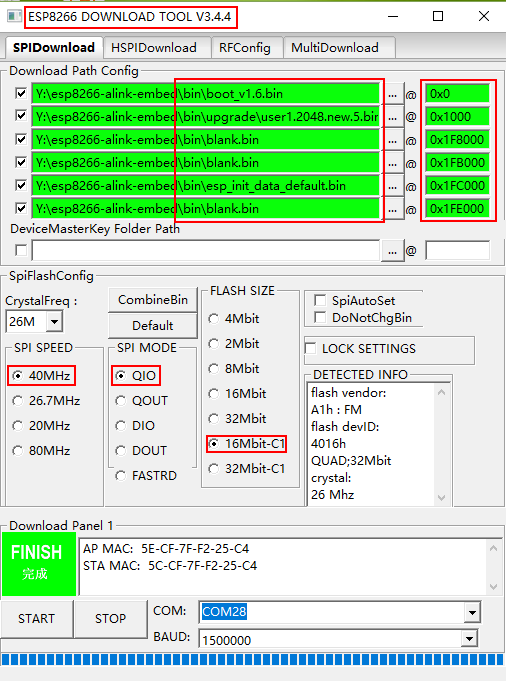
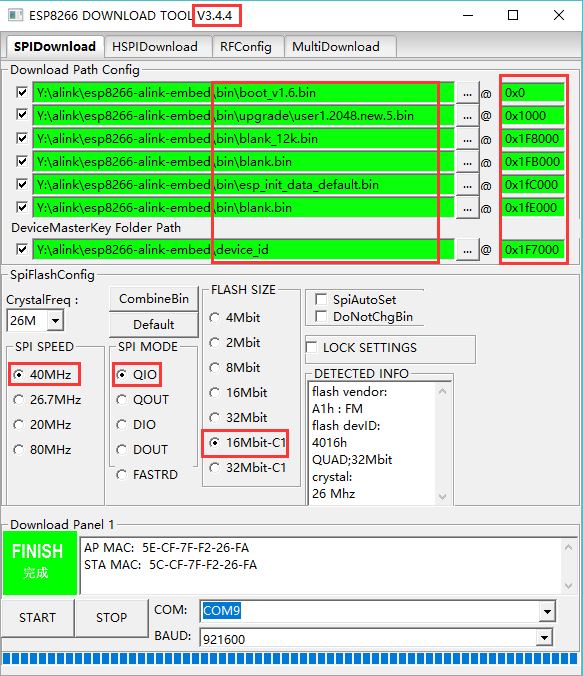
feat: Update the configuration of alink sds

diff --git a/user/sample_json.c b/user/sample_json.c
@@ -26,6 +26,8 @@
 
 #include "freertos/FreeRTOS.h"
 #include "freertos/task.h"
+#include "freertos/timers.h"
+
 
 #include "esp_alink.h"
 #include "esp_alink_log.h"
@@ -37,7 +39,7 @@
 #define CONFIG_READ_TASK_STACK ((1024+512) / 4)
 #endif
 
-static const char *TAG = "sample_json";
+static const char *TAG         = "sample_json";
 static xTaskHandle read_handle = NULL;
 
 /*do your job here*/
@@ -63,23 +65,20 @@ static dev_info_t light_info = {
  */
 static alink_err_t device_data_parse(const char *json_str, const char *key, uint8_t *value)
 {
-    alink_err_t ret = 0;
-    char sub_str[64] = {0};
+    alink_err_t ret   = 0;
+    char sub_str[64]  = {0};
     char value_tmp[8] = {0};
 
-    ret = esp_json_parse(json_str, key, sub_str);
-
-    if (ret < 0) {
+    if (esp_json_parse(json_str, key, sub_str) < 0) {
         return ALINK_ERR;
     }
 
-    ret = esp_json_parse(sub_str, "value", value_tmp);
-
-    if (ret < 0) {
+    if (esp_json_parse(sub_str, "value", value_tmp) < 0) {
         return ALINK_ERR;
     }
 
     *value = atoi(value_tmp);
+
     return ALINK_ERR;
 }
 
@@ -88,15 +87,11 @@ static alink_err_t device_data_pack(const char *json_str, const char *key, int v
     char sub_str[64] = {0};
     alink_err_t ret = 0;
 
-    ret = esp_json_pack(sub_str, "value", value);
-
-    if (ret < 0) {
+    if (esp_json_pack(sub_str, "value", value) < 0) {
         return ALINK_ERR;
     }
 
-    ret = esp_json_pack(json_str, key, sub_str);
-
-    if (ret < 0) {
+    if (esp_json_pack(json_str, key, sub_str) < 0) {
         return ALINK_ERR;
     }
 
@@ -112,13 +107,12 @@ static const char *activate_data2 = "{\"ErrorCode\": { \"value\": \"0\" }}";
 static alink_err_t alink_activate_device()
 {
     alink_err_t ret = 0;
-    ret = alink_write(activate_data, strlen(activate_data) + 1, 200);
-    ret = alink_write(activate_data2, strlen(activate_data2) + 1, 200);
 
-    if (ret < 0) {
-        ALINK_LOGW("alink_write is err");
-        return ALINK_ERR;
-    }
+    ret = alink_write(activate_data, strlen(activate_data) + 1, 200);
+    ALINK_ERROR_CHECK(ret < 0, ALINK_ERR, "alink_write, ret: %d", ret);
+
+    ret = alink_write(activate_data2, strlen(activate_data2) + 1, 200);
+    ALINK_ERROR_CHECK(ret < 0, ALINK_ERR, "alink_write, ret: %d", ret);
 
     return ALINK_OK;
 }
@@ -130,20 +124,16 @@ static alink_err_t alink_activate_device()
 static alink_err_t proactive_report_data()
 {
     alink_err_t ret = 0;
-    char *up_cmd = (char *)calloc(1, ALINK_DATA_LEN);
+    char *up_cmd    = calloc(1, ALINK_DATA_LEN);
 
-    // device_data_pack(up_cmd, "ErrorCode", light_info.errorcode);
     device_data_pack(up_cmd, "Hue", light_info.hue);
     device_data_pack(up_cmd, "Luminance", light_info.luminance);
     device_data_pack(up_cmd, "Switch", light_info.power);
     device_data_pack(up_cmd, "WorkMode", light_info.work_mode);
+
     ret = alink_write(up_cmd, strlen(up_cmd) + 1, 500);
     free(up_cmd);
-
-    if (ret < 0) {
-        ALINK_LOGW("alink_write is err");
-        return ALINK_ERR;
-    }
+    ALINK_ERROR_CHECK(ret < 0, ALINK_ERR, "alink_write, ret: %d", ret);
 
     return ALINK_OK;
 }
@@ -158,7 +148,7 @@ static alink_err_t proactive_report_data()
  */
 static void read_task_test(void *arg)
 {
-    char *down_cmd = (char *)malloc(ALINK_DATA_LEN);
+    char *down_cmd  = (char *)malloc(ALINK_DATA_LEN);
     alink_err_t ret = ALINK_ERR;
 
     for (;;) {
@@ -330,36 +320,18 @@ uint32 user_rf_cal_sector_set(void)
     return rf_cal_sec;
 }
 
-/**
- * @brief As a unique identifier for the sds device
- */
-#define device_key              "xrSJSzVDKPk4UB7BGCIf"
-#define device_secret           "cRB3lwgd7zwFg02DK69xxl2lgefDdtYZ"
-#define DEVICE_KEY_LEN          (20 + 1)
-#define DEVICE_SECRET_LEN       (32 + 1)
-
-char *product_get_device_key(char key_str[DEVICE_KEY_LEN])
-{
-    return strncpy(key_str, device_key, DEVICE_KEY_LEN);
-}
-
-char *product_get_device_secret(char secret_str[DEVICE_SECRET_LEN])
-{
-    return strncpy(secret_str, device_secret, DEVICE_SECRET_LEN);
-}
-
 static void alink_app_main_task(void *arg)
 {
+    alink_err_t ret = ALINK_OK;
     const alink_product_t product_info = {
         .name           = "alink_product",
         /*!< Product version number, ota upgrade need to be modified */
         .version        = "1.0.0",
-        .model          = "ALINKTEST_LIVING_LIGHT_ALINK_TEST",
-        .key            = "5gPFl8G4GyFZ1fPWk20m",
-        .secret         = "ngthgTlZ65bX5LpViKIWNsDPhOf2As9ChnoL9gQb",
-        /*!< The Key-value pair used in the product */
-        .key_sandbox    = "dpZZEpm9eBfqzK7yVeLq",
-        .secret_sandbox = "THnfRRsU5vu6g6m9X6uFyAjUWflgZ0iyGjdEneKm",
+        .model          = "OPENALINK_LIVING_LIGHT_SDS_TEST",
+        .key            = "1L6ueddLqnRORAQ2sGOL",
+        .secret         = "qfxCLoc1yXEk9aLdx5F74tl1pdxl0W0q7eYOvvuo",
+        .key_sandbox    = "",
+        .secret_sandbox = "",
     };
 
     /**
@@ -372,36 +344,31 @@ static void alink_app_main_task(void *arg)
     vTaskDelete(NULL);
 }
 
-#ifdef SAMPLE_JSON_DEBUG
+
 extern xTaskHandle event_handle;
 extern xTaskHandle post_handle;
 /**
  * @brief This function is only for detecting memory leaks
  */
-static void alink_debug_task(void *arg)
+static void alink_debug_timer_cb(void *timer)
 {
-    for (;;) {
-        ALINK_LOGI("total free heap :%d, count: %d", system_get_free_heap_size(), count);
+    ALINK_LOGI("total free heap : %dB, count: %d", system_get_free_heap_size(), count);
 
-        if (event_handle) {
-            ALINK_LOGI("event_handle free heap size: %dB", uxTaskGetStackHighWaterMark(event_handle) * 4);
-        }
-
-        if (post_handle) {
-            ALINK_LOGI("post_handle free heap size: %dB", uxTaskGetStackHighWaterMark(post_handle) * 4);
-        }
-
-        if (read_handle) {
-            ALINK_LOGI("read_handle free heap size: %dB", uxTaskGetStackHighWaterMark(read_handle) * 4);
-        }
-
-        printf("\n");
-        vTaskDelay(5000 / portTICK_RATE_MS);
+    if (event_handle) {
+        ALINK_LOGI("event_handle free heap size: %dB", uxTaskGetStackHighWaterMark(event_handle) * 4);
     }
 
-    vTaskDelete(NULL);
+    if (post_handle) {
+        ALINK_LOGI("post_handle free heap size: %dB", uxTaskGetStackHighWaterMark(post_handle) * 4);
+    }
+
+    if (read_handle) {
+        ALINK_LOGI("read_handle free heap size: %dB", uxTaskGetStackHighWaterMark(read_handle) * 4);
+    }
+
+    printf("\n");
 }
-#endif
+
 
 /******************************************************************************
  * FunctionName : user_init
@@ -411,8 +378,8 @@ static void alink_debug_task(void *arg)
 *******************************************************************************/
 void user_init(void)
 {
-#ifdef SAMPLE_JSON_DEBUG
     /*!< Used to debug unexpectedly exit */
+    ALINK_LOGI("=================  EXIT INFO  ================");
     struct rst_info *rst_info = system_get_rst_info();
     ALINK_LOGI("reason   : 0x%x", rst_info->reason);
     ALINK_LOGI("exccause : 0x%x", rst_info->exccause);
@@ -422,8 +389,6 @@ void user_init(void)
     ALINK_LOGI("excvaddr : 0x%x", rst_info->excvaddr);
     ALINK_LOGI("depc     : 0x%x", rst_info->depc);
     ALINK_LOGI("rtn_addr : 0x%x", rst_info->rtn_addr);
-    xTaskCreate(alink_debug_task, "debug_task", 512 / 4 , NULL, 3, NULL);
-#endif
 
     ALINK_LOGI("================= SYSTEM INFO ================");
     ALINK_LOGI("compile time : %s %s", __DATE__, __TIME__);
@@ -435,5 +400,10 @@ void user_init(void)
 
     wifi_set_opmode(STATION_MODE);
     xTaskCreate(alink_app_main_task, "app_main_task", (4096 + 512) / 4 , NULL, 5, NULL);
+
+    xTimerHandle timer = xTimerCreate("alink_debug_timer_cb", 10000 / portTICK_RATE_MS,
+                                       true, NULL, alink_debug_timer_cb);
+    xTimerStart(timer, 0);
 }
-#endif
+
+#endif /*!< ALINK_PASSTHROUGH */

diff --git a/platforms/alink-embed/adaptation/alink_product.c b/platforms/alink-embed/adaptation/alink_product.c
@@ -88,3 +88,21 @@ char *product_get_sn(char sn_str[PRODUCT_SN_LEN])
     snprintf(sn_str, PRODUCT_SN_LEN, "%02x%02x%02x%02x%02x%02x", MAC2STR(mac));
     return sn_str;
 }
+
+char *product_get_device_key(char device_key[DEVICE_KEY_LEN])
+{
+    uint32_t tmp_key[DEVICE_KEY_LEN / 4 + 1] = {0};
+    spi_flash_read(DEVICE_ID_ADRR, tmp_key, DEVICE_KEY_LEN - 1);
+
+    ALINK_LOGD("device_key: %s", tmp_key);
+    return strncpy(device_key, (char *)tmp_key, DEVICE_KEY_LEN);
+}
+
+char *product_get_device_secret(char secret_str[DEVICE_SECRET_LEN])
+{
+    uint32_t tmp_secret[DEVICE_SECRET_LEN / 4 + 1] = {0};
+    spi_flash_read(DEVICE_ID_ADRR + DEVICE_KEY_LEN - 1, tmp_secret, DEVICE_SECRET_LEN - 1);
+
+    ALINK_LOGD("device_key: %s", tmp_secret);
+    return strncpy(secret_str, (char *)tmp_secret, DEVICE_SECRET_LEN);
+}

diff --git a/platforms/alink-embed/include/esp_alink.h b/platforms/alink-embed/include/esp_alink.h
@@ -103,7 +103,11 @@ typedef int32_t alink_err_t;
 #define CONFIG_SSL_READ_BUFFER_LEN     3096
 #endif
 
-#define SSL_READ_BUFFER_LEN             CONFIG_SSL_READ_BUFFER_LEN
+#ifndef CONFIG_DEVICE_ID_ADRR
+#define CONFIG_DEVICE_ID_ADRR          0x1F7000
+#endif
+
+#define SSL_READ_BUFFER_LEN           CONFIG_SSL_READ_BUFFER_LEN
 
 #define ALINK_MODULE_NAME             CONFIG_ALINK_MODULE_NAME
 
@@ -115,6 +119,8 @@ typedef int32_t alink_err_t;
 
 #define DOWN_CMD_QUEUE_NUM            CONFIG_DOWN_CMD_QUEUE_NUM
 #define UP_CMD_QUEUE_NUM              CONFIG_UP_CMD_QUEUE_NUM
+
+#define DEVICE_ID_ADRR                CONFIG_DEVICE_ID_ADRR
 
 #ifdef CONFIG_ALINK_PASSTHROUGH
 #define ALINK_PASSTHROUGH

diff --git a/platforms/alink-embed/adaptation/include/alink_product.h b/platforms/alink-embed/adaptation/include/alink_product.h
@@ -45,6 +45,8 @@ extern "C" {
 #define PRODUCT_UUID_LEN        (32 + 1)
 #define PRODUCT_VERSION_LEN     (16 + 1)
 #define PRODUCT_NAME_LEN        (32 + 1)
+#define DEVICE_KEY_LEN          (20 + 1)
+#define DEVICE_SECRET_LEN       (32 + 1)
 /**
  * @brief Get the product version string.
  *

diff --git a/README.md b/README.md
@@ -23,7 +23,7 @@
 ### 2.1 知识储备
 - 了解 ALINK
 请详细阅读阿里提供的官方[技术文档](https://open.aliplus.com/docs/open/)，了解 ALINK 相关的概念
-- 熟悉 ESP32 开发
+- 熟悉 ESP8266 开发
 请详细阅读 [ESP8266入门指南](http://espressif.com/zh-hans/support/explore/get-started/esp8266/getting-started-guide)
 
 ### 2.2 硬件准备
@@ -112,10 +112,11 @@ CCFLAGS += -D CONFIG_SSL_READ_BUFFER_LEN=2048
 
         boot.bin------------------->0x000000    // 启动程序
         user1.2048.new.5.bin------->0x01000     // 主程序
+        device_id.bin-------------->0x1F7000    // 设备ID
         blank_12k.bin-------------->0x1F8000    // 初始化用户参数区
         blank.bin------------------>0x1FB000    // 初始化 RF_CAL 参数区。
         esp_init_data_default.bin-->0x1FC000    // 初始化其他射频参数区
-        blalk.bin------------------>0x1FE000    // 初始化系统参数区
+        blank.bin------------------>0x1FE000    // 初始化系统参数区
 
     > 注：ESP-LAUNCHER 上的 J82 跳针需要用跳线帽短接，否则无法下载
 4. 启动设备
@@ -124,13 +125,10 @@ CCFLAGS += -D CONFIG_SSL_READ_BUFFER_LEN=2048
     <img src="docs/readme_image/running.png" width="400" />
 
 ## 9 运行与调试
-1. 下载阿里[智能厂测包](https://open.aliplus.com/download)
+1. 下载阿里[独立开发者-DemoApp](https://open.alink.aliyun.com/download/)
 2. 登陆淘宝账号
-3. 开启配网模组测试列表：
-    - 安卓：点击“环境切换”，勾选“开启配网模组测试列表”
-    - 苹果：点击“AKDebug”->测试选项，勾选“仅显示模组认证入口”
-4. 添加设备：添加设备->“分类查找”中查找对应的类别->模组认证->V3 配网_热点配网
-5. 按键说明：
+3. 设备配网
+4. 按键说明：
     - 激活设备：短按（<3s）配网开关
     - 重新配网：长按（>=3s）配网开关
     - 高频压测：短按（<3s）设置开关
@@ -141,7 +139,17 @@ CCFLAGS += -D CONFIG_SSL_READ_BUFFER_LEN=2048
 使用淘宝账号签约入驻阿里平台，并完成账号授权
 ### 10.2 [产品注册](https://open.aliplus.com/docs/open/open/register/index.html)
 产品注册是设备上云的必要过程，任何一款产品在上云之前必须完成在平台的注册
-### 10.3 [产品开发](https://open.aliplus.com/docs/open/open/develop/index.html)
+### 10.3 申请设备ID
+1. 购买设备ID：使用 ALINK SDS 的每一个设备都需要一个唯一的设备ID，设备ID需要向阿里官方购买。
+2. 烧录设备ID：设备ID需要在产品生产时烧录到设备的eFuse中，为方便您的修改，在产品开发时，您可以先设备的ID直接烧录 FLASH 中，我们为您提供了生成设备ID固件脚本，请按照如下说明操作：
+    - 填写设备ID列表：打开`device_id_secret.txt`，填入设备的ID
+    ```
+    num       device_id                   device_secret
+    0    3XezoNYjjnkJyslLEEGm    kfU2rROY5s8ffg0kNVotykZNdfn7ZD5X
+    ```
+    - 烧录设备ID固件：运行`gen_misc.sh`脚本，将会在`device_id`文件夹下生成设备ID的固件，您可以选烧录工具上的'DeviceMasterKey Folder Path'，进行批量设备的烧录，烧录后的固件将自动从文件夹中移到"device_id/used"。
+
+### 10.4 [产品开发](https://open.aliplus.com/docs/open/open/develop/index.html)
 > 注：1. 除非您有特殊需求，否则您在开发时只需修改 user 下的代码，无需关心其内部实现细节
 > 　　2. 您需要先开发手机APP，alink embed 版本需要单独的开发的APP，除demo外使用阿里小智将无法进行设备的配网，控制等操作
 
@@ -149,19 +157,16 @@ CCFLAGS += -D CONFIG_SSL_READ_BUFFER_LEN=2048
 
     阿里服务器后台导出设备 TRD 表格,调用`alink_init()`传入产品注册的信息，注册事件回调函数
     ```c
-    /*!< 每一个具体设备都是不一样的，保证设备的秘密性 */
-    #define device_key    "xrSJSzVDKPk4UB7BGCIf"
-    #define device_secret "cRB3lwgd7zwFg02DK69xxl2lgefDdtYZ"
+    const alink_product_t product_info = {
     const alink_product_t product_info = {
         .name           = "alink_product",
+        /*!< Product version number, ota upgrade need to be modified */
         .version        = "1.0.0",
-        .model          = "ALINKTEST_LIVING_LIGHT_ALINK_TEST",
-        /*!< 每一种产品键值对都是相同的 */
-        .key            = "5gPFl8G4GyFZ1fPWk20m",
-        .secret         = "ngthgTlZ65bX5LpViKIWNsDPhOf2As9ChnoL9gQb",
-        /*!< 在沙箱环境下使用的键值对 */
-        .key_sandbox    = "dpZZEpm9eBfqzK7yVeLq",
-        .secret_sandbox = "THnfRRsU5vu6g6m9X6uFyAjUWflgZ0iyGjdEneKm",
+        .model          = "OPENALINK_LIVING_LIGHT_SDS_TEST",
+        .key            = "1L6ueddLqnRORAQ2sGOL",
+        .secret         = "qfxCLoc1yXEk9aLdx5F74tl1pdxl0W0q7eYOvvuo",
+        .key_sandbox    = "",
+        .secret_sandbox = "",
     };
     ESP_ERROR_CHECK( alink_init(&product_info, alink_event_handler) );
     ```
@@ -171,13 +176,13 @@ CCFLAGS += -D CONFIG_SSL_READ_BUFFER_LEN=2048
         - 设备配网过程中的所有动作，都会传入事件回调函数中，您可以根据实际需求事件回调函数相应的做相应处理，如在当设备进入配置配网模式灯慢闪，等待激活时灯快闪等
         ```c
         typedef enum {
-            ALINK_EVENT_CLOUD_CONNECTED = 0,/*!< ESP32 connected from alink cloude */
-            ALINK_EVENT_CLOUD_DISCONNECTED, /*!< ESP32 disconnected from alink cloude */
+            ALINK_EVENT_CLOUD_CONNECTED = 0,/*!< ESP8266 connected from alink cloude */
+            ALINK_EVENT_CLOUD_DISCONNECTED, /*!< ESP8266 disconnected from alink cloude */
             ALINK_EVENT_GET_DEVICE_DATA,    /*!< Alink cloud requests data from the device */
             ALINK_EVENT_SET_DEVICE_DATA,    /*!< Alink cloud to send data to the device */
             ALINK_EVENT_POST_CLOUD_DATA,    /*!< The device sends data to alink cloud  */
-            ALINK_EVENT_WIFI_CONNECTED,     /*!< ESP32 station got IP from connected AP */
-            ALINK_EVENT_WIFI_DISCONNECTED,  /*!< ESP32 station disconnected from AP */
+            ALINK_EVENT_WIFI_CONNECTED,     /*!< ESP8266 station got IP from connected AP */
+            ALINK_EVENT_WIFI_DISCONNECTED,  /*!< ESP8266 station disconnected from AP */
             ALINK_EVENT_CONFIG_NETWORK,     /*!< The equipment enters the distribution mode */
             ALINK_EVENT_UPDATE_ROUTER,      /*!< Request to configure the router */
             ALINK_EVENT_FACTORY_RESET,      /*!< Request to restore factory settings */
